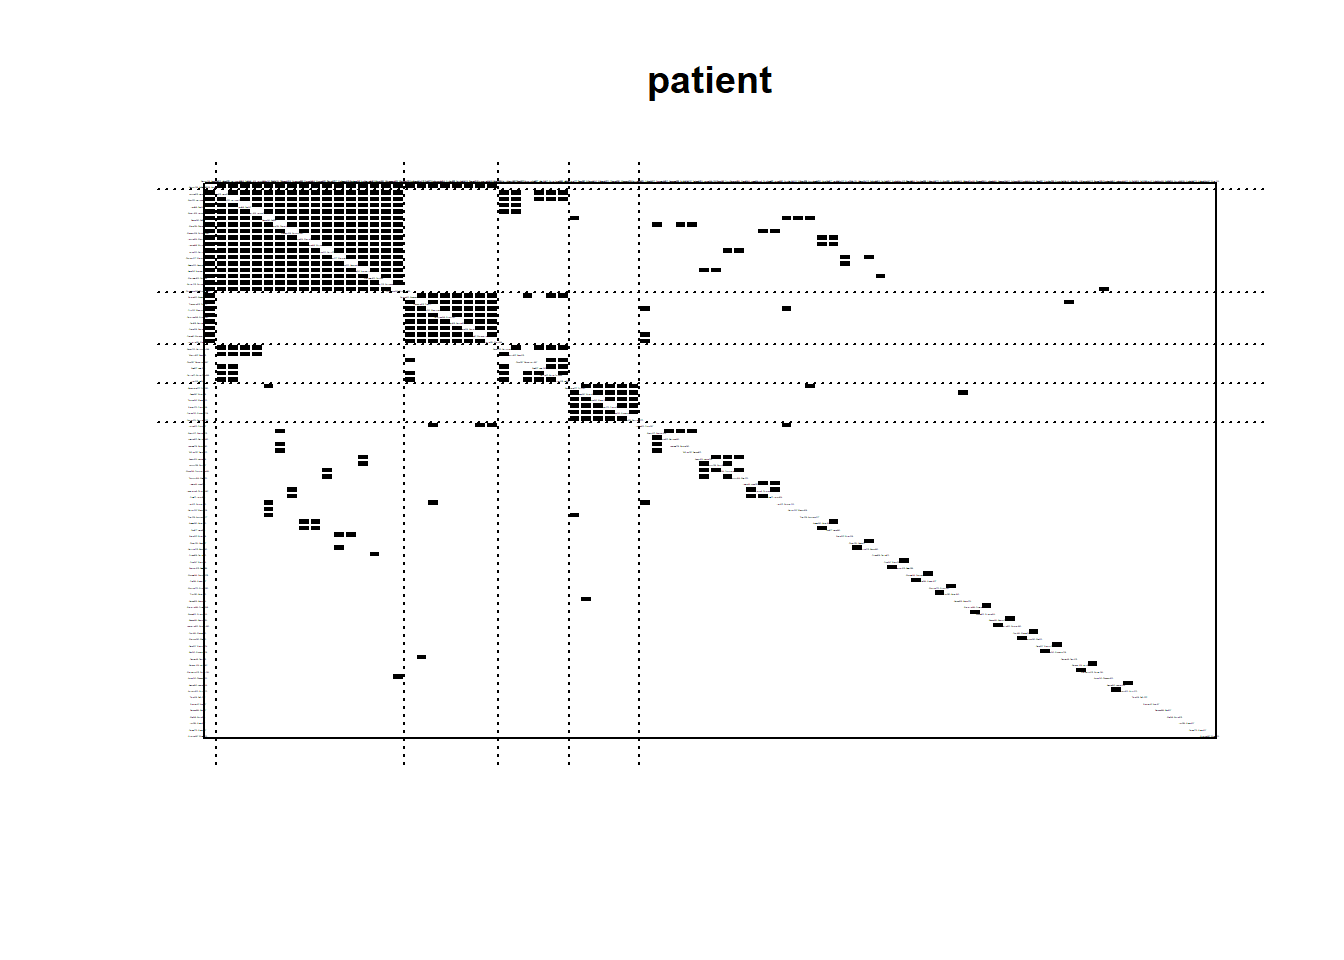
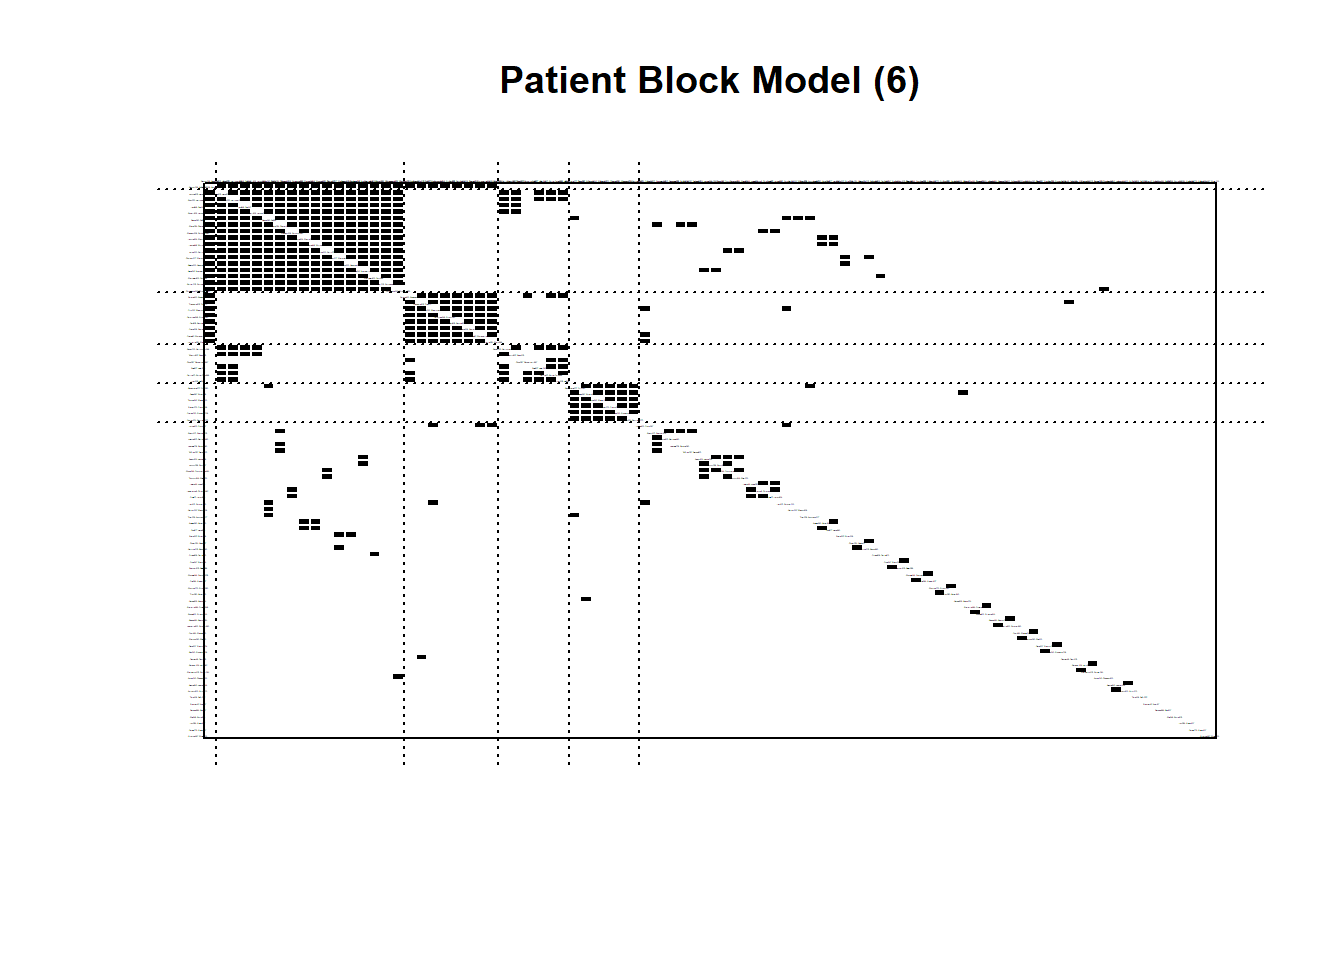
post

Changed region(s): [[0.375, 0.0625, 0.6875, 0.125]]

diff --git a/docs/posts/Post_Three - Copy/post_3_drug.html b/docs/posts/Post_Three - Copy/post_3_drug.html
@@ -247,7 +247,7 @@ pre > code.sourceCode > span > a:first-child::before { text-decoration: underlin
 </div>
 </div>
 <div class="cell">
-<div class="sourceCode cell-code" id="cb8"><pre class="sourceCode r code-with-copy"><code class="sourceCode r"><span id="cb8-1"><a href="#cb8-1" aria-hidden="true" tabindex="-1"></a><span class="fu">plot</span>(patient.se, <span class="at">main =</span> <span class="st">"patient"</span>)</span>
+<div class="sourceCode cell-code" id="cb8"><pre class="sourceCode r code-with-copy"><code class="sourceCode r"><span id="cb8-1"><a href="#cb8-1" aria-hidden="true" tabindex="-1"></a><span class="fu">plot</span>(patient.se, <span class="at">main =</span> <span class="st">"Patient Block Model (6)"</span>)</span>
 <span id="cb8-2"><a href="#cb8-2" aria-hidden="true" tabindex="-1"></a><span class="fu">rect.hclust</span>(patient.se<span class="sc">$</span>cluster, <span class="at">k =</span> <span class="dv">6</span>)</span></code><button title="Copy to Clipboard" class="code-copy-button"><i class="bi"></i></button></pre></div>
 <div class="cell-output-display">
 <p><img src="post_3_drug_files/figure-html/unnamed-chunk-7-1.png" class="img-fluid" width="672"></p>
@@ -278,7 +278,7 @@ Block 6 0.000000000 1.00000000 1.0000000 0.000000000 0.0000000     NaN</code></p
 <span id="cb12-6"><a href="#cb12-6" aria-hidden="true" tabindex="-1"></a> <span class="fu">abline</span>(<span class="at">v =</span> j<span class="sc">-</span> <span class="fl">0.5</span>, <span class="at">h =</span> j<span class="sc">-</span> <span class="fl">0.5</span>, <span class="at">lty =</span> <span class="dv">3</span>, <span class="at">xpd=</span><span class="cn">FALSE</span>)</span>
 <span id="cb12-7"><a href="#cb12-7" aria-hidden="true" tabindex="-1"></a> }</span>
 <span id="cb12-8"><a href="#cb12-8" aria-hidden="true" tabindex="-1"></a> </span>
-<span id="cb12-9"><a href="#cb12-9" aria-hidden="true" tabindex="-1"></a><span class="fu">plot.block</span>(pat_blk_model.patient.org, <span class="at">main =</span> <span class="st">"patient"</span>)</span></code><button title="Copy to Clipboard" class="code-copy-button"><i class="bi"></i></button></pre></div>
+<span id="cb12-9"><a href="#cb12-9" aria-hidden="true" tabindex="-1"></a><span class="fu">plot.block</span>(pat_blk_model.patient.org, <span class="at">main =</span> <span class="st">"Patient Block Model (6)"</span>)</span></code><button title="Copy to Clipboard" class="code-copy-button"><i class="bi"></i></button></pre></div>
 <div class="cell-output-display">
 <p><img src="post_3_drug_files/figure-html/unnamed-chunk-10-1.png" class="img-fluid" width="672"></p>
 </div>
@@ -340,7 +340,8 @@ Block 6       0 0.00800000 0.01500000 0.006666667 0.02800000 0.018775510</code><
 <span id="cb19-3"><a href="#cb19-3" aria-hidden="true" tabindex="-1"></a>pat_attr <span class="ot">&lt;-</span> pat_attr <span class="sc">%&gt;%</span></span>
 <span id="cb19-4"><a href="#cb19-4" aria-hidden="true" tabindex="-1"></a><span class="fu">left_join</span>(block_df, <span class="at">by =</span> <span class="fu">c</span>(<span class="st">"NAME"</span> <span class="ot">=</span> <span class="st">"pat_blk_mod.plabels"</span> ))</span>
 <span id="cb19-5"><a href="#cb19-5" aria-hidden="true" tabindex="-1"></a></span>
-<span id="cb19-6"><a href="#cb19-6" aria-hidden="true" tabindex="-1"></a><span class="co">#write.csv(pat_attr, "pat_attr.csv")</span></span></code><button title="Copy to Clipboard" class="code-copy-button"><i class="bi"></i></button></pre></div>
+<span id="cb19-6"><a href="#cb19-6" aria-hidden="true" tabindex="-1"></a><span class="co">#write.csv(pat_attr, "pat_attr.csv")</span></span>
+<span id="cb19-7"><a href="#cb19-7" aria-hidden="true" tabindex="-1"></a>role<span class="ot">&lt;-</span>pat_blk_mod<span class="sc">$</span>block.membership[<span class="fu">match</span>(patient.stat<span class="sc">%v%</span><span class="st">"vertex.names"</span>,pat_blk_mod<span class="sc">$</span>plabels)]</span></code><button title="Copy to Clipboard" class="code-copy-button"><i class="bi"></i></button></pre></div>
 </div>
 <div class="cell">
 <div class="sourceCode cell-code" id="cb20"><pre class="sourceCode r code-with-copy"><code class="sourceCode r"><span id="cb20-1"><a href="#cb20-1" aria-hidden="true" tabindex="-1"></a><span class="fu">plot.block</span>(pat_blk_mod, <span class="at">main =</span> <span class="st">"patient"</span>,</span>
@@ -359,7 +360,7 @@ Block 6       0 0.00800000 0.01500000 0.006666667 0.02800000 0.018775510</code><
 <span id="cb21-7"><a href="#cb21-7" aria-hidden="true" tabindex="-1"></a>               <span class="at">node.color=</span><span class="st">"role"</span>, </span>
 <span id="cb21-8"><a href="#cb21-8" aria-hidden="true" tabindex="-1"></a>               <span class="at">node.size=</span>sna<span class="sc">::</span><span class="fu">degree</span>(patient.stat, <span class="at">gmode=</span><span class="st">"graph"</span>),</span>
 <span id="cb21-9"><a href="#cb21-9" aria-hidden="true" tabindex="-1"></a>               <span class="at">node.alpha =</span> .<span class="dv">5</span>)<span class="sc">+</span> <span class="fu">ggtitle</span>(</span>
-<span id="cb21-10"><a href="#cb21-10" aria-hidden="true" tabindex="-1"></a>               <span class="st">"Patient 6 Block Model Network"</span>)</span></code><button title="Copy to Clipboard" class="code-copy-button"><i class="bi"></i></button></pre></div>
+<span id="cb21-10"><a href="#cb21-10" aria-hidden="true" tabindex="-1"></a>               <span class="st">"Patient Block Model Network (6)"</span>)</span></code><button title="Copy to Clipboard" class="code-copy-button"><i class="bi"></i></button></pre></div>
 <div class="cell-output cell-output-stderr">
 <pre><code>Registered S3 method overwritten by 'GGally':
   method from   
@@ -415,7 +416,7 @@ Block 6       0 0.00800000 0.01500000 0.006666667 0.02800000 0.018775510</code><
 <span id="cb27-4"><a href="#cb27-4" aria-hidden="true" tabindex="-1"></a>               <span class="at">node.color=</span> pat_attr<span class="sc">$</span>pat_blk_mod.block.membership, </span>
 <span id="cb27-5"><a href="#cb27-5" aria-hidden="true" tabindex="-1"></a>               <span class="at">node.size=</span>sna<span class="sc">::</span><span class="fu">degree</span>(patient.stat, <span class="at">gmode=</span><span class="st">"graph"</span>),</span>
 <span id="cb27-6"><a href="#cb27-6" aria-hidden="true" tabindex="-1"></a>               <span class="at">node.alpha =</span> .<span class="dv">5</span>) <span class="sc">+</span> <span class="fu">ggtitle</span>(</span>
-<span id="cb27-7"><a href="#cb27-7" aria-hidden="true" tabindex="-1"></a>               <span class="st">"Patient 6 Block Model Network"</span>)</span></code><button title="Copy to Clipboard" class="code-copy-button"><i class="bi"></i></button></pre></div>
+<span id="cb27-7"><a href="#cb27-7" aria-hidden="true" tabindex="-1"></a>               <span class="st">"Patient Block Model Network (6)"</span>)</span></code><button title="Copy to Clipboard" class="code-copy-button"><i class="bi"></i></button></pre></div>
 <div class="cell-output-display">
 <p><img src="post_3_drug_files/figure-html/unnamed-chunk-19-1.png" class="img-fluid" width="672"></p>
 </div>
@@ -446,7 +447,7 @@ Block 6       0 0.00800000 0.01500000 0.006666667 0.02800000 0.018775510</code><
 <span id="cb32-2"><a href="#cb32-2" aria-hidden="true" tabindex="-1"></a>patients_jaccard.ig <span class="ot">&lt;-</span> <span class="fu">graph_from_adjacency_matrix</span>(patients_jaccard_bi, <span class="at">mode =</span> <span class="st">"undirected"</span>)</span>
 <span id="cb32-3"><a href="#cb32-3" aria-hidden="true" tabindex="-1"></a><span class="fu">summary</span>(patients_jaccard.ig)</span></code><button title="Copy to Clipboard" class="code-copy-button"><i class="bi"></i></button></pre></div>
 <div class="cell-output cell-output-stdout">
-<pre><code>IGRAPH c7d922b UN-- 86 3390 -- 
+<pre><code>IGRAPH ab63274 UN-- 86 3390 -- 
 + attr: name (v/c)</code></pre>
 </div>
 </div>
